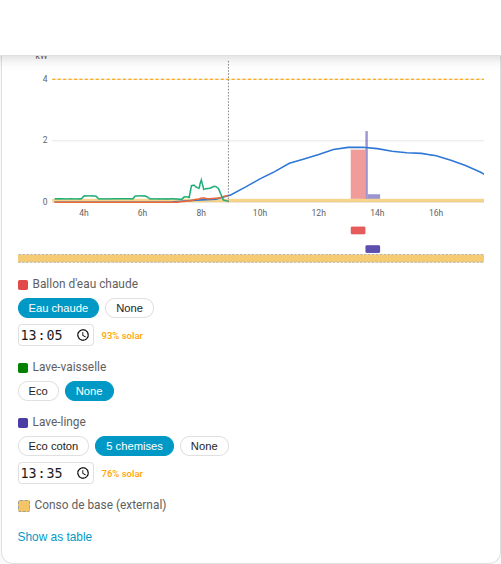
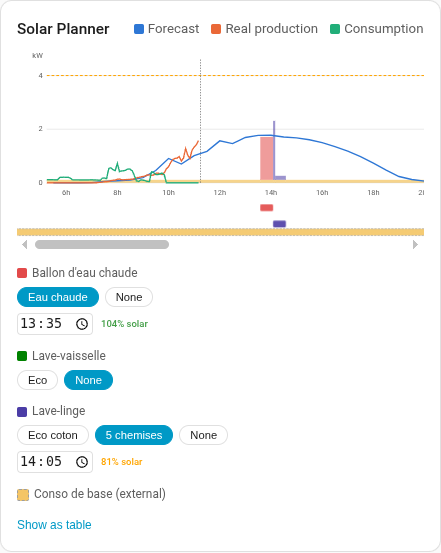
Add regression test for the Solcast datetime period_start bug

diff --git a/tests/test_coordinator.py b/tests/test_coordinator.py
@@ -1,14 +1,19 @@
-"""Pure-function tests for coordinator.py helpers that don't need a running Home Assistant core.
+"""Tests for coordinator.py helpers.
 
-Needs pytest-homeassistant-custom-component installed (see requirements-dev.txt) purely so
-`coordinator.py`'s module-level `homeassistant` imports resolve; no `hass` fixture is used here.
+Needs pytest-homeassistant-custom-component installed (see requirements-dev.txt), both for
+`coordinator.py`'s module-level `homeassistant` imports to resolve and, for the forecast-points
+test below, to set mock entity states via the `hass` fixture.
 """
 
 from __future__ import annotations
 
 from datetime import datetime, timezone
 
-from custom_components.solar_planner_scheduler.coordinator import _ceil_to_five_minutes, _day_buckets
+from custom_components.solar_planner_scheduler.coordinator import (
+    _ceil_to_five_minutes,
+    _day_buckets,
+    _read_forecast_points,
+)
 
 
 def test_ceil_to_five_minutes_rounds_up_to_the_next_mark():
@@ -26,3 +31,21 @@ def test_todays_buckets_start_on_the_next_five_minute_mark_not_now():
     buckets = _day_buckets(now, day_offset=0)
     assert buckets[0]["start"] == datetime(2026, 8, 30, 14, 25, tzinfo=timezone.utc)
     assert all(b["start"].minute % 5 == 0 and b["start"].second == 0 for b in buckets)
+
+
+async def test_read_forecast_points_handles_a_raw_datetime_period_start(hass):
+    """Regression test for the coverage_pct-always-0% bug: Solcast stores `period_start` as a
+    live `datetime` object in hass.states (only serialized to a string over WS/REST/JSON), and
+    dt_util.parse_datetime() used to be called on it unconditionally, raising TypeError and
+    silently emptying every forecast point.
+    """
+    period_start = datetime(2026, 8, 30, 10, 0, tzinfo=timezone.utc)
+    hass.states.async_set(
+        "sensor.forecast",
+        "3",
+        {"detailedForecast": [{"period_start": period_start, "pv_estimate": 1.5}]},
+    )
+
+    points = _read_forecast_points(hass, "sensor.forecast")
+
+    assert points == [{"time": period_start, "w": 1500.0}]

diff --git a/README.md b/README.md
@@ -43,6 +43,13 @@ instead of the computed slot. When today is good enough but tomorrow could be be
 exposes a pending choice (`today_coverage_pct`/`tomorrow_coverage_pct`); resolve it with the
 `accept_today`/`accept_tomorrow` services.
 
+Only declared consumers (fixed loads, scheduled devices) are subtracted from available solar —
+there's no live "background consumption" estimate, since a single instantaneous reading spikes
+whenever any large load happens to be running right at update time and that spike would otherwise
+get stretched across the whole scheduling horizon.
+
+The config flow UI is available in English and French, following your Home Assistant language.
+
 ## Entities
 
 Per device: `sensor.<device>_next_start` (timestamp + `coverage_pct`), `binary_sensor.<device>_should_run`,
@@ -78,7 +85,7 @@ devices:
 
 ```bash
 python3 -m venv .venv && .venv/bin/pip install -r requirements-dev.txt
-.venv/bin/pytest tests/      # Python (scheduling.py, config_flow.py via pytest-homeassistant-custom-component)
+.venv/bin/pytest tests/      # Python (scheduling.py, config_flow.py/coordinator.py via pytest-homeassistant-custom-component)
 cd frontend && node --test   # JS
 ```
 
